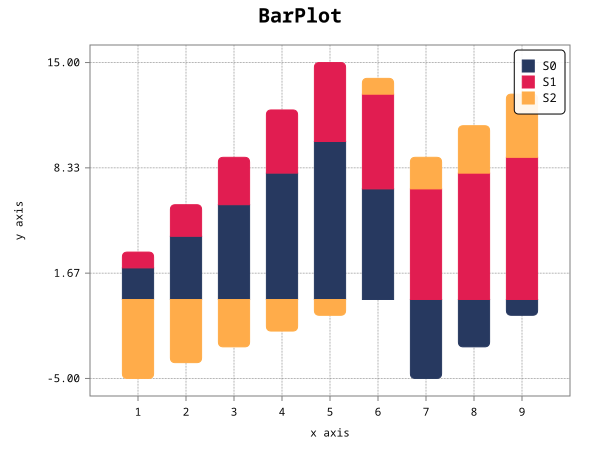
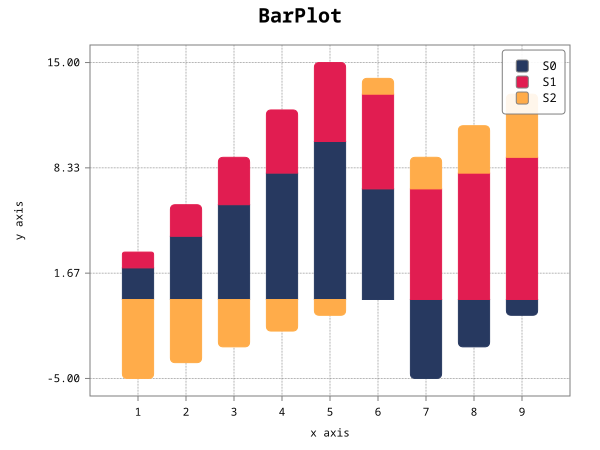
Add rect border in legend

Changed region(s): [[0.81, 0.0933, 0.93, 0.28], [0.93, 0.1244, 0.96, 0.2489]]

diff --git a/src/Plot2D.cpp b/src/Plot2D.cpp
@@ -615,25 +615,38 @@ void Plot2D::DrawLegend() {
 
   switch (m_data_type) {
     case DataType::NUMERIC: {
-      const std::size_t num_labels = std::min(m_legend_labels.size(), m_numeric_data.size());
+      const std::size_t num_labels =
+          std::min(m_legend_labels.size(), m_numeric_data.size());
       for (std::size_t i = 0; i < num_labels; ++i) {
-        components::Legend::DataType type = (m_numeric_data[i].style.scatter == false)? components::Legend::DataType::LINE : components::Legend::DataType::POINT;
-        legend.AddEntry(m_legend_labels[i], {type, m_numeric_data[i].style.color, m_numeric_data[i].style.dash_array});
+        components::Legend::DataType type =
+            (m_numeric_data[i].style.scatter == false)
+                ? components::Legend::DataType::LINE
+                : components::Legend::DataType::POINT;
+        legend.AddEntry(m_legend_labels[i],
+                        {type, m_numeric_data[i].style.color,
+                         m_numeric_data[i].style.dash_array});
       }
       break;
     }
 
     case DataType::CATEGORICAL: {
-      const std::size_t num_labels = std::min(m_legend_labels.size(), m_categorical_data.size());
+      const std::size_t num_labels =
+          std::min(m_legend_labels.size(), m_categorical_data.size());
       for (std::size_t i = 0; i < num_labels; ++i) {
-        components::Legend::DataType type = (m_categorical_data[i].style.scatter == false)? components::Legend::DataType::LINE : components::Legend::DataType::POINT;
-        legend.AddEntry(m_legend_labels[i], {type, m_categorical_data[i].style.color, m_categorical_data[i].style.dash_array});
+        components::Legend::DataType type =
+            (m_categorical_data[i].style.scatter == false)
+                ? components::Legend::DataType::LINE
+                : components::Legend::DataType::POINT;
+        legend.AddEntry(m_legend_labels[i],
+                        {type, m_categorical_data[i].style.color,
+                         m_categorical_data[i].style.dash_array});
       }
       break;
     }
   }
 
-  legend.Draw(&m_svg, m_frame_x + m_frame_w, m_frame_y, LEGEND_MARGIN, components::Legend::Alignment::TOP_RIGHT);
+  legend.Draw(&m_svg, m_frame_x + m_frame_w, m_frame_y, LEGEND_MARGIN,
+              components::Legend::Alignment::TOP_RIGHT);
 }
 
 }  // namespace plotcpp

diff --git a/src/BarPlotBase.cpp b/src/BarPlotBase.cpp
@@ -231,7 +231,7 @@ void BarPlotBase::DrawBars() {
 
       svg::Path path{
           .commands = cmds,
-          .stroke_width = 1,
+          .stroke_width = 1.0f,
           .stroke_color = series.color,
           .stroke_opacity = 1.0f,
           .fill_color = series.color,
@@ -341,10 +341,11 @@ void BarPlotBase::DrawLegend() {
 
   const std::size_t num_labels = std::min(m_legend_labels.size(), m_num_bars);
   for (std::size_t i = 0; i < num_labels; ++i) {
-    legend.AddEntry(m_legend_labels[i], {components::Legend::DataType::BAR, m_y_data[i].color});
+    legend.AddEntry(m_legend_labels[i],
+                    {components::Legend::DataType::BAR, m_y_data[i].color});
   }
 
-  legend.Draw(&m_svg, m_frame_x + m_frame_w, m_frame_y, LEGEND_MARGIN, components::Legend::Alignment::TOP_RIGHT);
-
+  legend.Draw(&m_svg, m_frame_x + m_frame_w, m_frame_y, LEGEND_MARGIN,
+              components::Legend::Alignment::TOP_RIGHT);
 }
 }  // namespace plotcpp

diff --git a/include/BarPlot.hpp b/include/BarPlot.hpp
@@ -65,8 +65,8 @@ class BarPlot : public BarPlotBase {
 
   /**
    * @brief Set a baseline value for all bars.
-   * The baseline is the value from which all bar segments, positive and negative
-   * will be stacked.
+   * The baseline is the value from which all bar segments, positive and
+   * negative will be stacked.
    *
    * @param baseline Baseline value.
    */
@@ -74,8 +74,8 @@ class BarPlot : public BarPlotBase {
 
   /**
    * @brief Set a baseline value for every individual bar.
-   * The baseline is the value from which all bar segments, positive and negative
-   * will be stacked.
+   * The baseline is the value from which all bar segments, positive and
+   * negative will be stacked.
    *
    * @param baseline Baseline value.
    */

diff --git a/include/BarPlotBase.hpp b/include/BarPlotBase.hpp
@@ -49,8 +49,9 @@ class BarPlotBase : public Figure {
   void SetRoundedEdges(bool enable);
 
   /**
-   * @brief Set the relative size (percentage) of the bar in relation with its total available space.
-   * Setting this parameter will affect the spacing between bars.
+   * @brief Set the relative size (percentage) of the bar in relation with its
+   * total available space. Setting this parameter will affect the spacing
+   * between bars.
    *
    * @param rel_width Percentage of the bar available space.
    */

diff --git a/src/components/Legend.cpp b/src/components/Legend.cpp
@@ -110,7 +110,9 @@ void Legend::Draw(svg::Document* document, float x, float y, float margin,
           .y = element_y - (RECT_LENGTH_PX / 2.0f),
           .width = RECT_LENGTH_PX,
           .height = RECT_LENGTH_PX,
-          .stroke_color = m_legend_labels[i].second.color,
+          .rx = 2.0f,
+          .ry = 2.0f,
+          .stroke_color = style::BORDER_COLOR,
           .stroke_opacity = 1.0f,
           .stroke_width = 1.0f,
           .fill_color = m_legend_labels[i].second.color,
